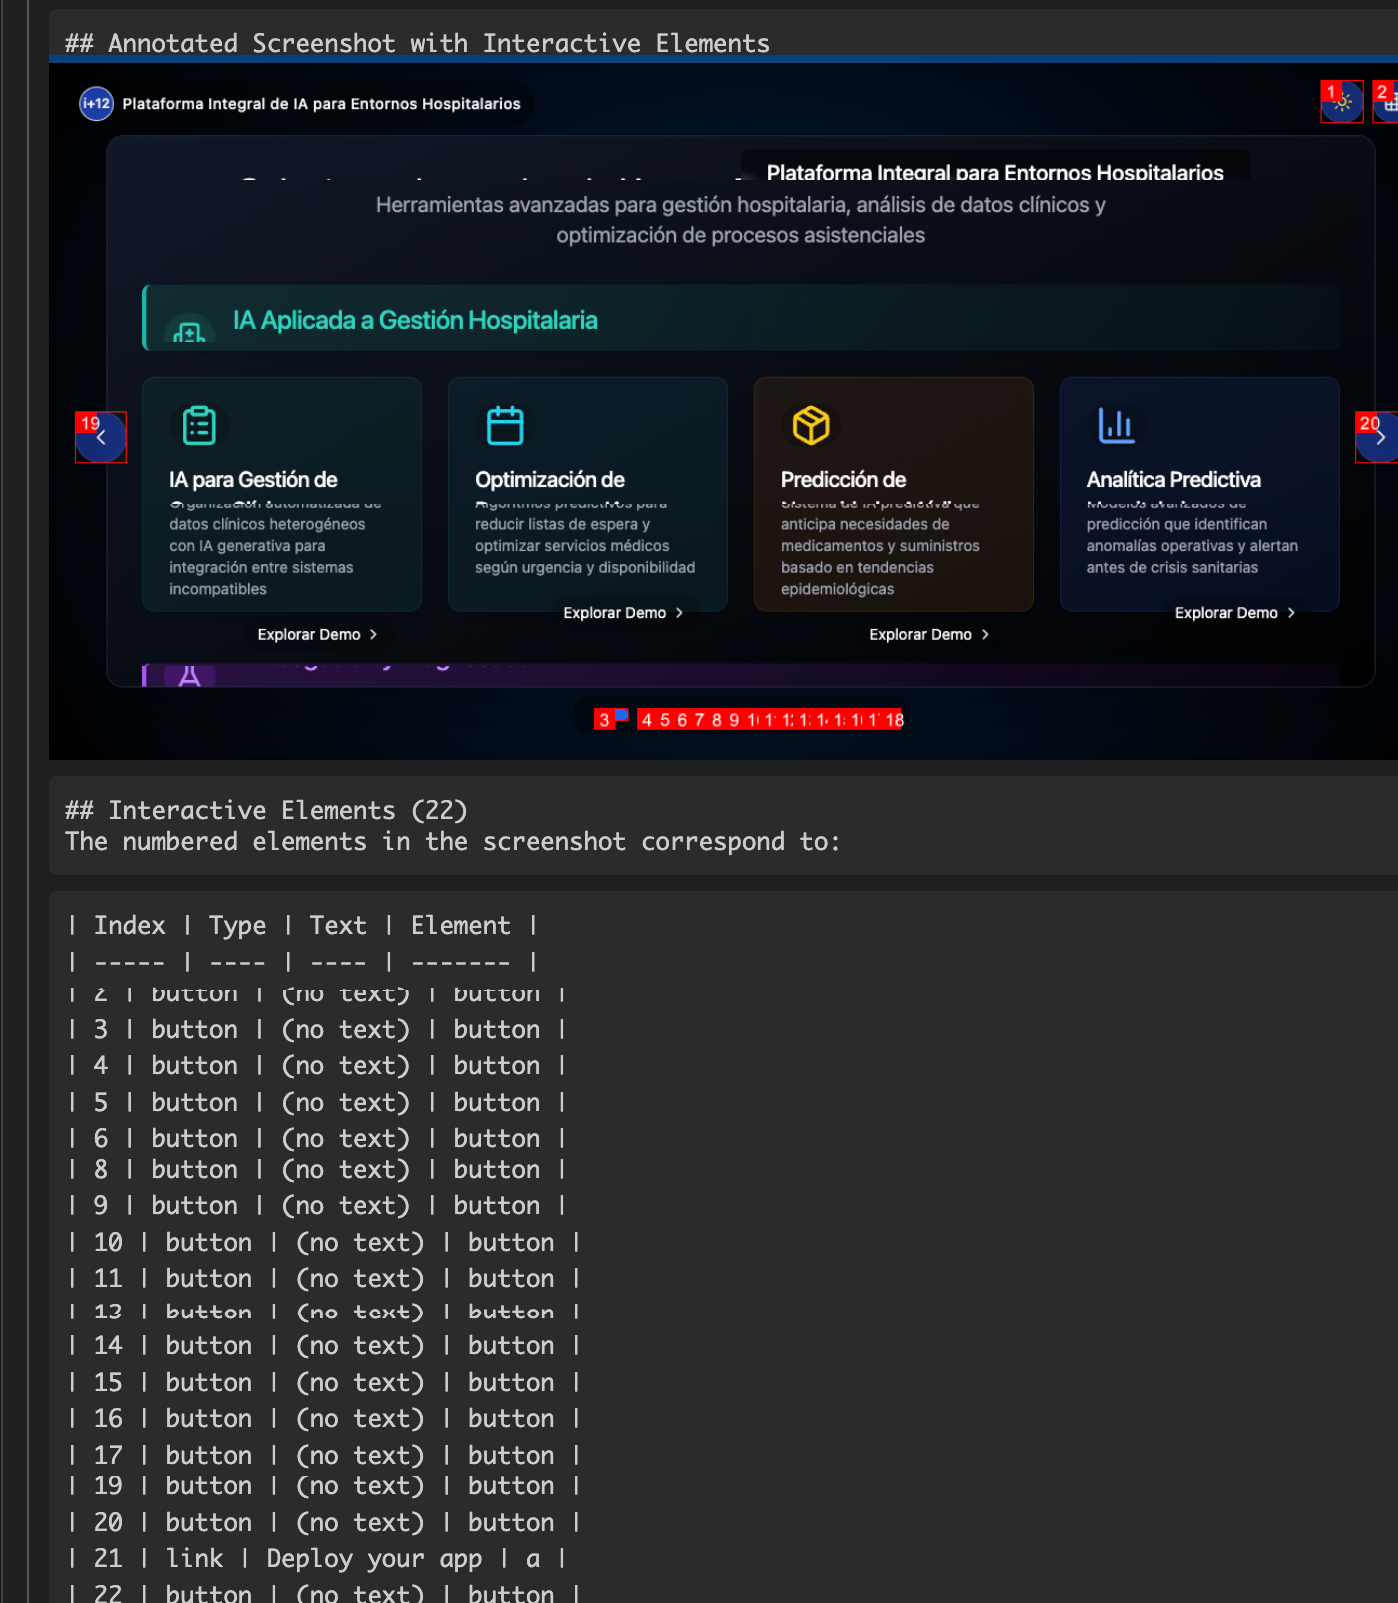
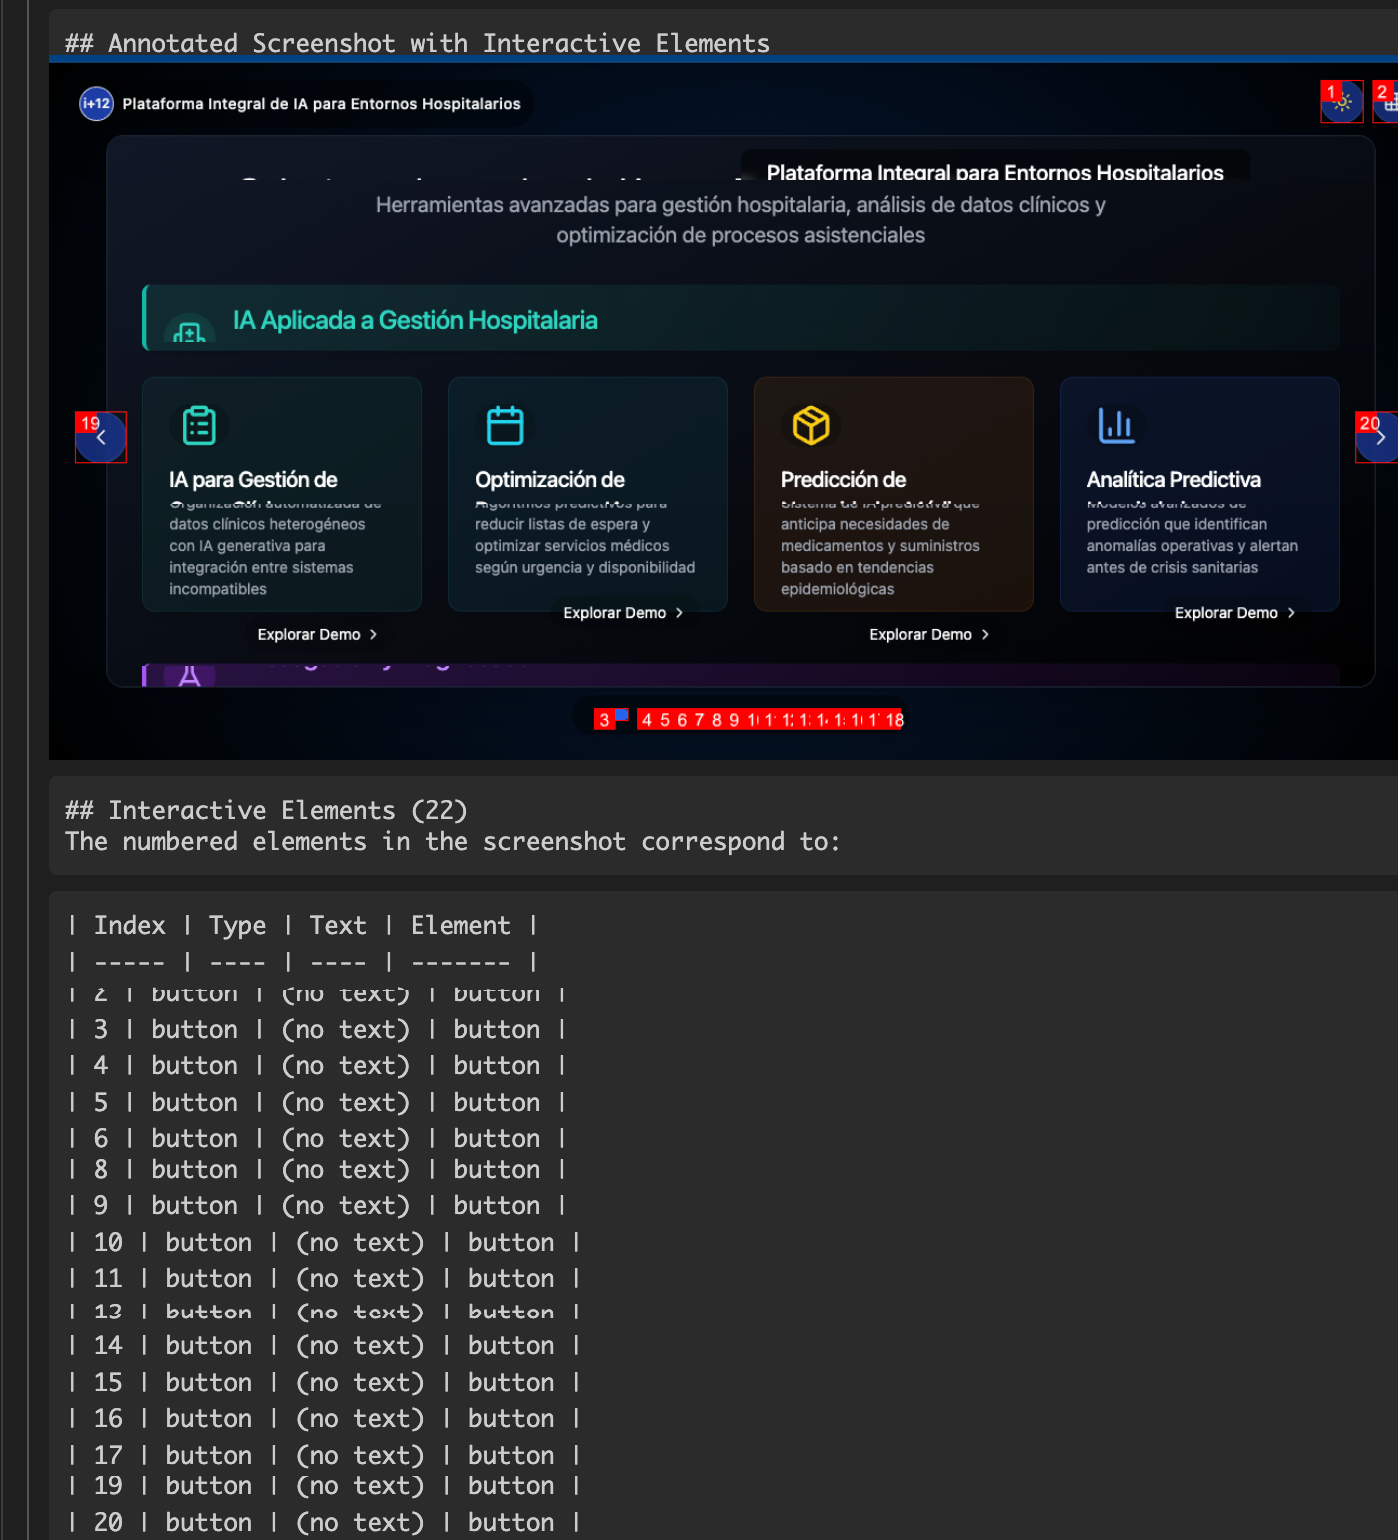
site: trim VUDA cover to element rows that remain visible in the capture

diff --git a/seo/siteMetadata.js b/seo/siteMetadata.js
@@ -41,7 +41,7 @@ export const ROUTE_METADATA = [
   route('/case-studies/apolo-medical-framework', 'APOLO Medical AI Framework Case Study | Sami Halawa', 'A multimodal medical-image workflow that separates structured visual description, reasoning, reporting and human review.', { schemaType: 'TechArticle', image: '/portfolio/apolo-architecture.png', imageAlt: 'APOLO medical AI architecture diagram', imageWidth: 1024, imageHeight: 1024, keywords: ['multimodal medical AI', 'medical image workflow', 'structured reporting', 'human review'] }),
   route('/case-studies/autoclient', 'AutoClient Revenue Operations Case Study | Sami Halawa', 'How AutoClient connects account research, enrichment, CRM review, email, WhatsApp and voice follow-up in one operator-led system.', { schemaType: 'TechArticle', image: '/portfolio/autoclient-operations-cover.webp', imageAlt: 'AutoClient account research, CRM and multi-channel operations workflow', imageWidth: 1600, imageHeight: 900, imageMime: 'image/webp', keywords: ['revenue operations', 'CRM automation', 'account research', 'AI agents'] }),
   route('/case-studies/autopricing', 'AutoPricing Delivery Case Study | Sami Halawa', 'A pricing-intelligence workflow connecting marketplace evidence, product matching, inventory, ERP context and operator review.', { schemaType: 'TechArticle', image: '/portfolio/autopricing-dashboard.png', imageAlt: 'AutoPricing pricing-intelligence and operations interface', imageWidth: 2756, imageHeight: 1994, keywords: ['pricing intelligence', 'marketplace data', 'ERP integration', 'sourcing workflow'] }),
-  route('/case-studies/vuda', 'VUDA & Agent Developer Tools Case Study | Sami Halawa', 'How VUDA gives coding agents visual access to live interfaces through MCP, with the architecture, runtime loop and adoption figures behind it and its companion tools.', { schemaType: 'TechArticle', image: '/portfolio/vuda-element-map.png', imageAlt: 'VUDA interactive-element map over a live interface capture', imageWidth: 1398, imageHeight: 1603, keywords: ['visual debugging agent', 'MCP server', 'coding agents', 'open-source developer tools'] }),
+  route('/case-studies/vuda', 'VUDA & Agent Developer Tools Case Study | Sami Halawa', 'How VUDA gives coding agents visual access to live interfaces through MCP, with the architecture, runtime loop and adoption figures behind it and its companion tools.', { schemaType: 'TechArticle', image: '/portfolio/vuda-element-map.png', imageAlt: 'VUDA interactive-element map over a live interface capture', imageWidth: 1398, imageHeight: 1540, keywords: ['visual debugging agent', 'MCP server', 'coding agents', 'open-source developer tools'] }),
 ];
 
 export const NOT_FOUND_METADATA = route('/404', 'Page Not Found | Sami Halawa', 'The requested page could not be found. Explore the engineering portfolio, selected case studies or concise CV.', { schemaType: 'WebPage', robots: 'noindex,follow' });
